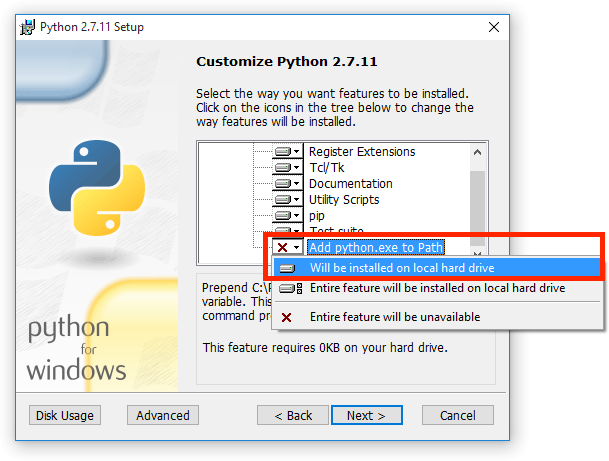
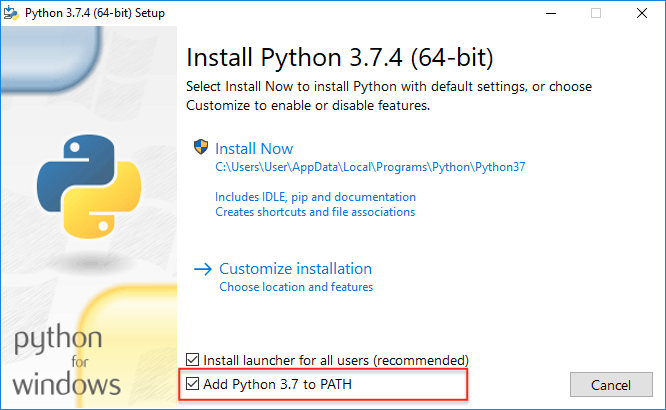
Update docs on how to install Python 3.7 on Windows

diff --git a/faq.rst b/faq.rst
@@ -78,8 +78,7 @@ Install Python Interpreter
 is installed by default on the all popular OS except Windows.
 
 **Windows Users**, please `Download the latest Python <https://www.python.org/downloads/>`_
-and install it. **DON'T FORGET** to select ``Add python.exe to Path`` feature
-on the "Customize" stage, otherwise, ``python`` command will not be available.
+and install it. **DON'T FORGET** to select ``Add Python to Path`` (see below), otherwise, ``python`` command will not be available.
 
 .. image:: _static/images/python-installer-add-path.png
 
